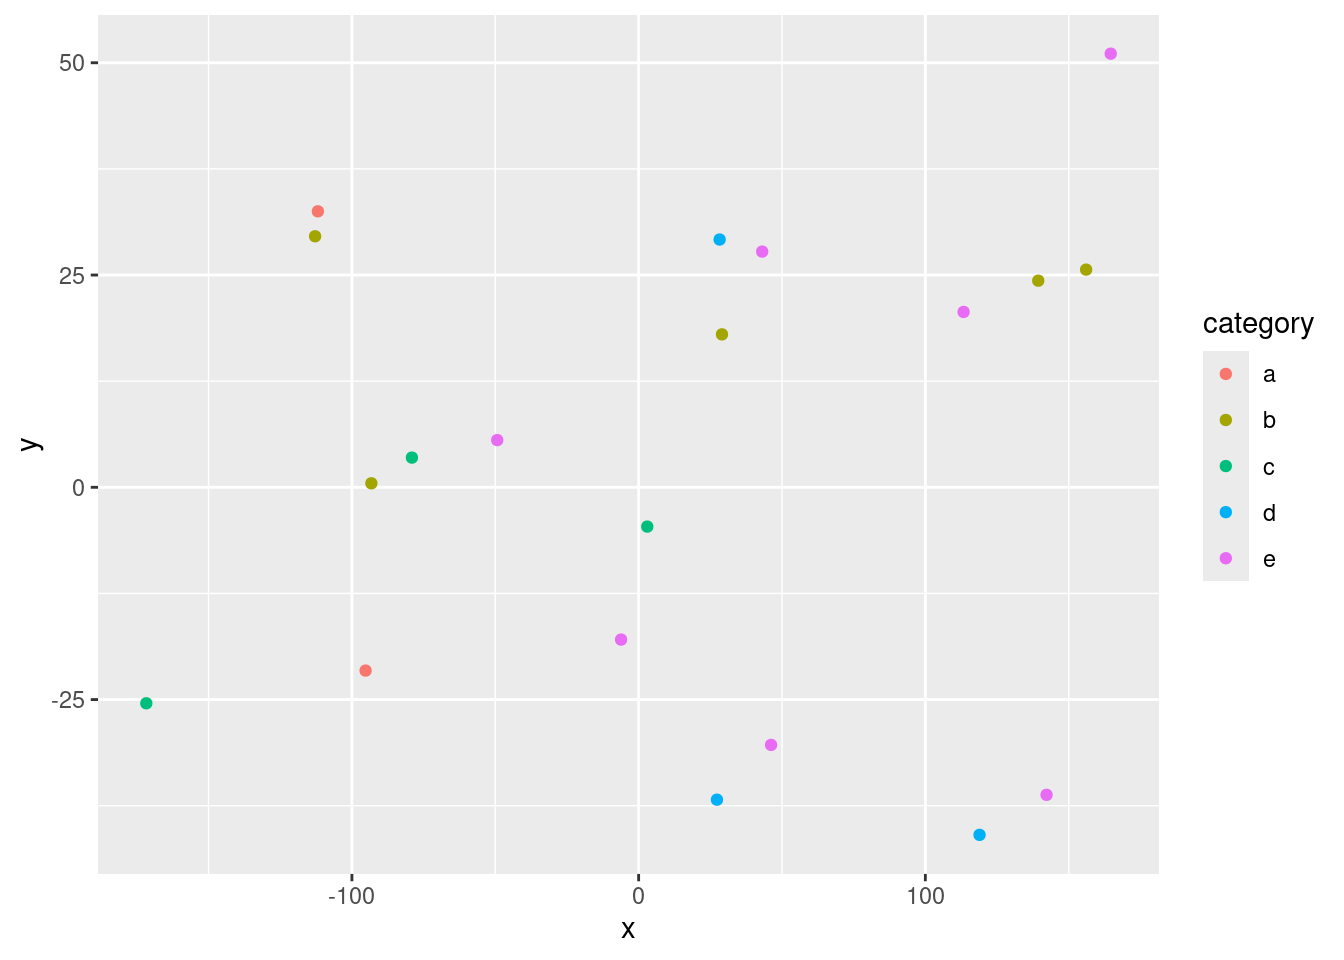
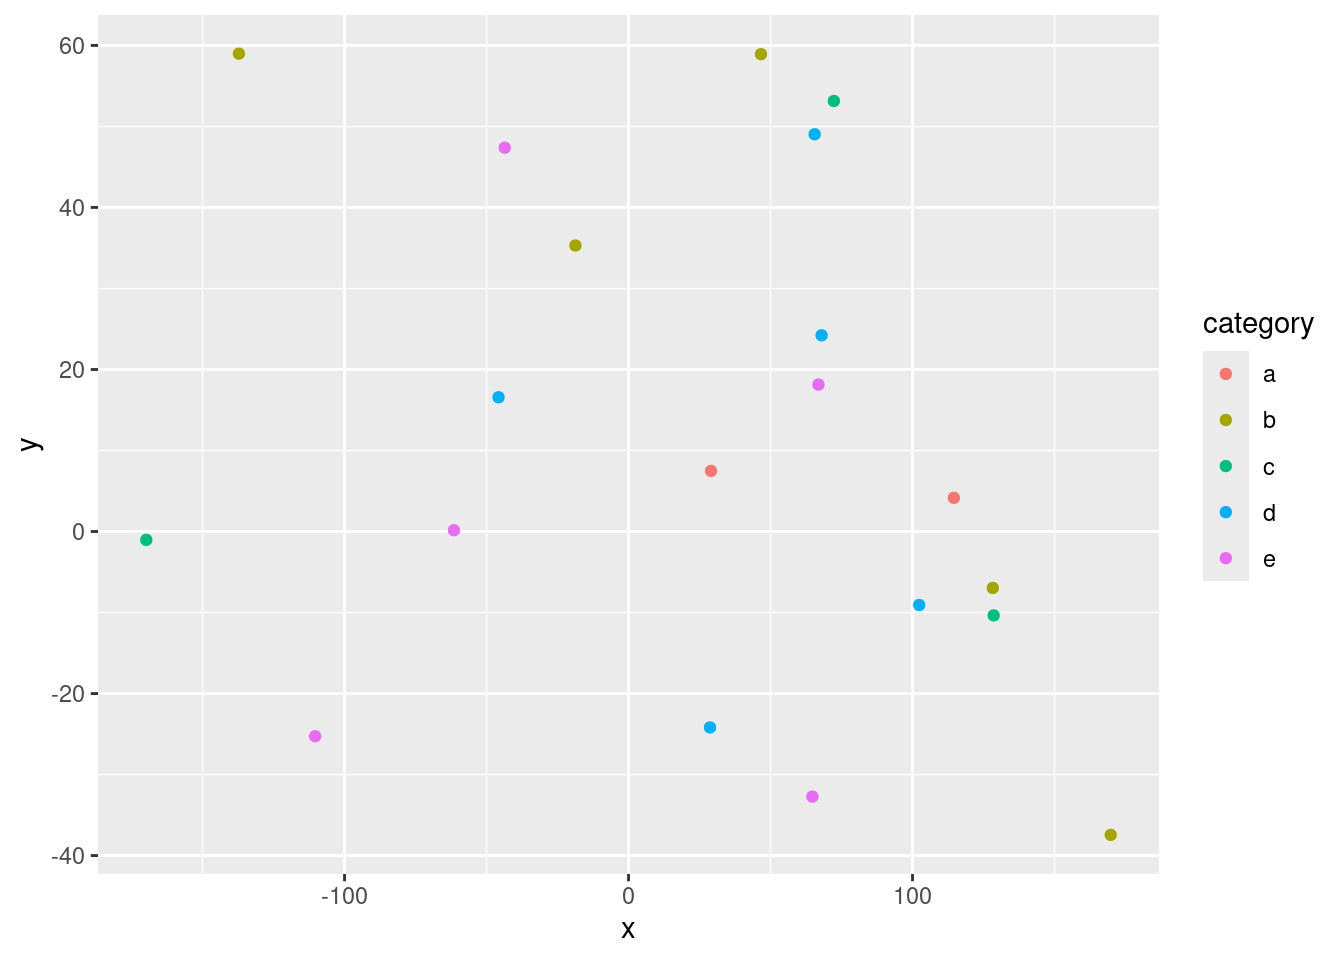
Built site for gh-pages

diff --git a/index.html b/index.html
@@ -266,74 +266,74 @@ pre > code.sourceCode > span > a:first-child::before { text-decoration: underlin
 </thead>
 <tbody>
 <tr class="odd">
-<td style="text-align: center;">3.01</td>
-<td style="text-align: center;">-4.63</td>
-<td style="text-align: center;">5.04</td>
-<td style="text-align: center;">c</td>
-<td style="text-align: center;">-0.42</td>
-</tr>
-<tr class="even">
-<td style="text-align: center;">-49.32</td>
-<td style="text-align: center;">5.56</td>
-<td style="text-align: center;">11.99</td>
-<td style="text-align: center;">e</td>
-<td style="text-align: center;">2.39</td>
-</tr>
-<tr class="odd">
-<td style="text-align: center;">28.24</td>
-<td style="text-align: center;">29.18</td>
-<td style="text-align: center;">12.61</td>
-<td style="text-align: center;">d</td>
-<td style="text-align: center;">-0.01</td>
-</tr>
-<tr class="even">
-<td style="text-align: center;">-79.08</td>
-<td style="text-align: center;">3.50</td>
-<td style="text-align: center;">9.10</td>
-<td style="text-align: center;">c</td>
-<td style="text-align: center;">-0.25</td>
-</tr>
-<tr class="odd">
-<td style="text-align: center;">43.09</td>
-<td style="text-align: center;">27.76</td>
-<td style="text-align: center;">14.27</td>
-<td style="text-align: center;">e</td>
-<td style="text-align: center;">-0.47</td>
-</tr>
-<tr class="even">
-<td style="text-align: center;">118.90</td>
-<td style="text-align: center;">-40.93</td>
-<td style="text-align: center;">10.36</td>
-<td style="text-align: center;">d</td>
-<td style="text-align: center;">-0.41</td>
-</tr>
-<tr class="odd">
-<td style="text-align: center;">139.37</td>
-<td style="text-align: center;">24.34</td>
-<td style="text-align: center;">9.19</td>
+<td style="text-align: center;">-18.70</td>
+<td style="text-align: center;">35.30</td>
+<td style="text-align: center;">11.36</td>
 <td style="text-align: center;">b</td>
-<td style="text-align: center;">0.47</td>
+<td style="text-align: center;">0.60</td>
 </tr>
 <tr class="even">
-<td style="text-align: center;">29.07</td>
-<td style="text-align: center;">18.01</td>
-<td style="text-align: center;">16.54</td>
-<td style="text-align: center;">b</td>
-<td style="text-align: center;">-0.35</td>
+<td style="text-align: center;">28.69</td>
+<td style="text-align: center;">-24.18</td>
+<td style="text-align: center;">14.00</td>
+<td style="text-align: center;">d</td>
+<td style="text-align: center;">-0.21</td>
 </tr>
 <tr class="odd">
-<td style="text-align: center;">27.31</td>
-<td style="text-align: center;">-36.79</td>
-<td style="text-align: center;">8.97</td>
-<td style="text-align: center;">d</td>
-<td style="text-align: center;">0.48</td>
+<td style="text-align: center;">-137.20</td>
+<td style="text-align: center;">58.98</td>
+<td style="text-align: center;">10.98</td>
+<td style="text-align: center;">b</td>
+<td style="text-align: center;">0.01</td>
 </tr>
 <tr class="even">
-<td style="text-align: center;">113.34</td>
-<td style="text-align: center;">20.66</td>
-<td style="text-align: center;">15.76</td>
+<td style="text-align: center;">-45.78</td>
+<td style="text-align: center;">16.57</td>
+<td style="text-align: center;">15.77</td>
+<td style="text-align: center;">d</td>
+<td style="text-align: center;">-1.56</td>
+</tr>
+<tr class="odd">
+<td style="text-align: center;">169.79</td>
+<td style="text-align: center;">-37.44</td>
+<td style="text-align: center;">15.01</td>
+<td style="text-align: center;">b</td>
+<td style="text-align: center;">-0.62</td>
+</tr>
+<tr class="even">
+<td style="text-align: center;">102.36</td>
+<td style="text-align: center;">-9.07</td>
+<td style="text-align: center;">12.80</td>
+<td style="text-align: center;">d</td>
+<td style="text-align: center;">-0.49</td>
+</tr>
+<tr class="odd">
+<td style="text-align: center;">72.31</td>
+<td style="text-align: center;">53.14</td>
+<td style="text-align: center;">14.77</td>
+<td style="text-align: center;">c</td>
+<td style="text-align: center;">1.36</td>
+</tr>
+<tr class="even">
+<td style="text-align: center;">46.63</td>
+<td style="text-align: center;">58.92</td>
+<td style="text-align: center;">14.58</td>
+<td style="text-align: center;">b</td>
+<td style="text-align: center;">0.49</td>
+</tr>
+<tr class="odd">
+<td style="text-align: center;">-43.60</td>
+<td style="text-align: center;">47.37</td>
+<td style="text-align: center;">6.34</td>
 <td style="text-align: center;">e</td>
-<td style="text-align: center;">1.35</td>
+<td style="text-align: center;">0.30</td>
+</tr>
+<tr class="even">
+<td style="text-align: center;">114.56</td>
+<td style="text-align: center;">4.16</td>
+<td style="text-align: center;">12.46</td>
+<td style="text-align: center;">a</td>
+<td style="text-align: center;">-1.79</td>
 </tr>
 </tbody>
 </table>
@@ -355,8 +355,8 @@ pre > code.sourceCode > span > a:first-child::before { text-decoration: underlin
 <span id="cb5-4"><a href="#cb5-4" aria-hidden="true" tabindex="-1"></a>  <span class="fu">addPopups</span>(<span class="sc">~</span>x[<span class="dv">2</span>], <span class="sc">~</span>y[<span class="dv">2</span>], <span class="st">"Random popup"</span>)</span>
 <span id="cb5-5"><a href="#cb5-5" aria-hidden="true" tabindex="-1"></a>m  <span class="co"># a map with the default OSM tile layer</span></span></code><button title="Copy to Clipboard" class="code-copy-button"><i class="bi"></i></button></pre></div>
 <div class="cell-output-display">
-<div class="leaflet html-widget html-fill-item" id="htmlwidget-4285475c1287042e1427" style="width:100%;height:325px;"></div>
-<script type="application/json" data-for="htmlwidget-4285475c1287042e1427">{"x":{"options":{"crs":{"crsClass":"L.CRS.EPSG3857","code":null,"proj4def":null,"projectedBounds":null,"options":{}}},"calls":[{"method":"addTiles","args":["https://{s}.tile.openstreetmap.org/{z}/{x}/{y}.png",null,null,{"minZoom":0,"maxZoom":18,"tileSize":256,"subdomains":"abc","errorTileUrl":"","tms":false,"noWrap":false,"zoomOffset":0,"zoomReverse":false,"opacity":1,"zIndex":1,"detectRetina":false,"attribution":"&copy; <a href=\"https://openstreetmap.org/copyright/\">OpenStreetMap<\/a>,  <a href=\"https://opendatacommons.org/licenses/odbl/\">ODbL<\/a>"}]},{"method":"addCircleMarkers","args":[[-4.627856137230992,5.561292339116335,29.18391709215939,3.498977674171329,27.76305000297725,-40.9345321264118,24.33798411861062,18.01236248575151,-36.79152502678335,20.65598613582551,-36.21835389174521,51.07304683886468,29.56557095982134,-25.43795339763165,0.470223119482398,32.50543185509741,-21.58543769270182,25.64059409312904,-17.93407928198576,-30.33831247128546],[3.013575654476881,-49.3158758059144,28.24131935834885,-79.08035854808986,43.09040389023721,118.8976481091231,139.3745388183743,29.06935441307724,27.31115735135972,113.3363056462258,142.2716704756021,164.6500597056001,-112.8460850939155,-171.7175329383463,-93.21742722764611,-111.8773150350899,-95.23624029010534,156.0723144561052,-6.124909445643425,46.18440683931112],[5.040244667325169,11.98575824731961,12.61328485095873,9.101377424085513,14.27329434314743,10.3600381850265,9.193443050608039,16.53604128514417,8.970644139917567,15.76037575025111,19.46229786262847,7.596181470435113,15.19431611872278,11.23834513244219,10.11869434849359,14.23787193489261,12.97353316098452,10.92567552579567,15.86251265951432,10.43770874850452],null,null,{"interactive":true,"className":"","stroke":true,"color":["c","e","d","c","e","d","b","b","d","e","e","e","b","c","b","a","a","b","e","e"],"weight":5,"opacity":0.5,"fill":true,"fillColor":["c","e","d","c","e","d","b","b","d","e","e","e","b","c","b","a","a","b","e","e"],"fillOpacity":0.2},null,null,null,null,null,{"interactive":false,"permanent":false,"direction":"auto","opacity":1,"offset":[0,0],"textsize":"10px","textOnly":false,"className":"","sticky":true},null]},{"method":"addPopups","args":[5.561292339116335,-49.3158758059144,"Random popup",null,null,{"maxWidth":300,"minWidth":50,"autoPan":true,"keepInView":false,"closeButton":true,"className":""}]}],"limits":{"lat":[-40.9345321264118,51.07304683886468],"lng":[-171.7175329383463,164.6500597056001]}},"evals":[],"jsHooks":[]}</script>
+<div class="leaflet html-widget html-fill-item" id="htmlwidget-b591f283548ae83beafb" style="width:100%;height:325px;"></div>
+<script type="application/json" data-for="htmlwidget-b591f283548ae83beafb">{"x":{"options":{"crs":{"crsClass":"L.CRS.EPSG3857","code":null,"proj4def":null,"projectedBounds":null,"options":{}}},"calls":[{"method":"addTiles","args":["https://{s}.tile.openstreetmap.org/{z}/{x}/{y}.png",null,null,{"minZoom":0,"maxZoom":18,"tileSize":256,"subdomains":"abc","errorTileUrl":"","tms":false,"noWrap":false,"zoomOffset":0,"zoomReverse":false,"opacity":1,"zIndex":1,"detectRetina":false,"attribution":"&copy; <a href=\"https://openstreetmap.org/copyright/\">OpenStreetMap<\/a>,  <a href=\"https://opendatacommons.org/licenses/odbl/\">ODbL<\/a>"}]},{"method":"addCircleMarkers","args":[[35.30213696882129,-24.18268488720059,58.9815297536552,16.57375090755522,-37.44415805675089,-9.069578563794494,53.14297034405172,58.91832903027534,47.37341629341245,4.159154528751969,-32.72625798359513,49.03510761447251,-6.968224374577403,-10.35662197507918,-25.26939296163619,18.1397215090692,0.156352361664176,-1.029147617518902,24.21770785935223,7.482337597757578],[-18.70429504662752,28.68884459137917,-137.2030788101256,-45.77894945628941,169.7944330796599,102.3571327328682,72.3149199038744,46.63153166882694,-43.59637437388301,114.5620952825993,64.75617871619761,65.53855075500906,128.2717302348465,128.5776067525148,-110.3486682940274,66.89180240035057,-61.47549921646714,-169.8150901962072,67.98268631100655,29.046168057248],[11.35978077305481,13.99696175358258,10.9822933783289,15.76997532742098,15.00563665293157,12.80197415500879,14.76572715560906,14.57635342725553,6.341396333882585,12.46463222429156,15.35125763737597,13.38763662381098,7.785007528727874,9.810295887291431,9.654404544271529,18.801145022735,18.36276434129104,12.19505612272769,7.806579358875751,10.50421194522642],null,null,{"interactive":true,"className":"","stroke":true,"color":["b","d","b","d","b","d","c","b","e","a","e","d","b","c","e","e","e","c","d","a"],"weight":5,"opacity":0.5,"fill":true,"fillColor":["b","d","b","d","b","d","c","b","e","a","e","d","b","c","e","e","e","c","d","a"],"fillOpacity":0.2},null,null,null,null,null,{"interactive":false,"permanent":false,"direction":"auto","opacity":1,"offset":[0,0],"textsize":"10px","textOnly":false,"className":"","sticky":true},null]},{"method":"addPopups","args":[-24.18268488720059,28.68884459137917,"Random popup",null,null,{"maxWidth":300,"minWidth":50,"autoPan":true,"keepInView":false,"closeButton":true,"className":""}]}],"limits":{"lat":[-37.44415805675089,58.9815297536552],"lng":[-169.8150901962072,169.7944330796599]}},"evals":[],"jsHooks":[]}</script>
 <p>Map of completely random data</p>
 </div>
 </div>
@@ -379,8 +379,8 @@ pre > code.sourceCode > span > a:first-child::before { text-decoration: underlin
 <span id="cb7-2"><a href="#cb7-2" aria-hidden="true" tabindex="-1"></a><span class="fu">dygraph</span>(nhtemp, <span class="at">main =</span> <span class="st">"New Haven Temperatures"</span>) <span class="sc">|&gt;</span> </span>
 <span id="cb7-3"><a href="#cb7-3" aria-hidden="true" tabindex="-1"></a>  <span class="fu">dyRangeSelector</span>(<span class="at">dateWindow =</span> <span class="fu">c</span>(<span class="st">"1920-01-01"</span>, <span class="st">"1960-01-01"</span>)) </span></code><button title="Copy to Clipboard" class="code-copy-button"><i class="bi"></i></button></pre></div>
 <div class="cell-output-display">
-<div class="dygraphs html-widget html-fill-item" id="htmlwidget-bcfcccbff13659dbed7b" style="width:100%;height:464px;"></div>
-<script type="application/json" data-for="htmlwidget-bcfcccbff13659dbed7b">{"x":{"attrs":{"title":"New Haven Temperatures","labels":["year","V1"],"legend":"auto","retainDateWindow":false,"axes":{"x":{"pixelsPerLabel":60}},"showRangeSelector":true,"dateWindow":["1920-01-01T00:00:00.000Z","1960-01-01T00:00:00.000Z"],"rangeSelectorHeight":40,"rangeSelectorPlotFillColor":" #A7B1C4","rangeSelectorPlotStrokeColor":"#808FAB","interactionModel":"Dygraph.Interaction.defaultModel"},"scale":"yearly","annotations":[],"shadings":[],"events":[],"format":"date","data":[["1912-01-01T00:00:00.000Z","1913-01-01T00:00:00.000Z","1914-01-01T00:00:00.000Z","1915-01-01T00:00:00.000Z","1916-01-01T00:00:00.000Z","1917-01-01T00:00:00.000Z","1918-01-01T00:00:00.000Z","1919-01-01T00:00:00.000Z","1920-01-01T00:00:00.000Z","1921-01-01T00:00:00.000Z","1922-01-01T00:00:00.000Z","1923-01-01T00:00:00.000Z","1924-01-01T00:00:00.000Z","1925-01-01T00:00:00.000Z","1926-01-01T00:00:00.000Z","1927-01-01T00:00:00.000Z","1928-01-01T00:00:00.000Z","1929-01-01T00:00:00.000Z","1930-01-01T00:00:00.000Z","1931-01-01T00:00:00.000Z","1932-01-01T00:00:00.000Z","1933-01-01T00:00:00.000Z","1934-01-01T00:00:00.000Z","1935-01-01T00:00:00.000Z","1936-01-01T00:00:00.000Z","1937-01-01T00:00:00.000Z","1938-01-01T00:00:00.000Z","1939-01-01T00:00:00.000Z","1940-01-01T00:00:00.000Z","1941-01-01T00:00:00.000Z","1942-01-01T00:00:00.000Z","1943-01-01T00:00:00.000Z","1944-01-01T00:00:00.000Z","1945-01-01T00:00:00.000Z","1946-01-01T00:00:00.000Z","1947-01-01T00:00:00.000Z","1948-01-01T00:00:00.000Z","1949-01-01T00:00:00.000Z","1950-01-01T00:00:00.000Z","1951-01-01T00:00:00.000Z","1952-01-01T00:00:00.000Z","1953-01-01T00:00:00.000Z","1954-01-01T00:00:00.000Z","1955-01-01T00:00:00.000Z","1956-01-01T00:00:00.000Z","1957-01-01T00:00:00.000Z","1958-01-01T00:00:00.000Z","1959-01-01T00:00:00.000Z","1960-01-01T00:00:00.000Z","1961-01-01T00:00:00.000Z","1962-01-01T00:00:00.000Z","1963-01-01T00:00:00.000Z","1964-01-01T00:00:00.000Z","1965-01-01T00:00:00.000Z","1966-01-01T00:00:00.000Z","1967-01-01T00:00:00.000Z","1968-01-01T00:00:00.000Z","1969-01-01T00:00:00.000Z","1970-01-01T00:00:00.000Z","1971-01-01T00:00:00.000Z"],[49.9,52.3,49.4,51.1,49.4,47.9,49.8,50.9,49.3,51.9,50.8,49.6,49.3,50.6,48.4,50.7,50.9,50.6,51.5,52.8,51.8,51.1,49.8,50.2,50.4,51.6,51.8,50.9,48.8,51.7,51,50.6,51.7,51.5,52.1,51.3,51,54,51.4,52.7,53.1,54.6,52,52,50.9,52.6,50.2,52.6,51.6,51.9,50.5,50.9,51.7,51.4,51.7,50.8,51.9,51.8,51.9,53]]},"evals":["attrs.interactionModel"],"jsHooks":[]}</script>
+<div class="dygraphs html-widget html-fill-item" id="htmlwidget-9695dcce905d695a1eac" style="width:100%;height:464px;"></div>
+<script type="application/json" data-for="htmlwidget-9695dcce905d695a1eac">{"x":{"attrs":{"title":"New Haven Temperatures","labels":["year","V1"],"legend":"auto","retainDateWindow":false,"axes":{"x":{"pixelsPerLabel":60}},"showRangeSelector":true,"dateWindow":["1920-01-01T00:00:00.000Z","1960-01-01T00:00:00.000Z"],"rangeSelectorHeight":40,"rangeSelectorPlotFillColor":" #A7B1C4","rangeSelectorPlotStrokeColor":"#808FAB","interactionModel":"Dygraph.Interaction.defaultModel"},"scale":"yearly","annotations":[],"shadings":[],"events":[],"format":"date","data":[["1912-01-01T00:00:00.000Z","1913-01-01T00:00:00.000Z","1914-01-01T00:00:00.000Z","1915-01-01T00:00:00.000Z","1916-01-01T00:00:00.000Z","1917-01-01T00:00:00.000Z","1918-01-01T00:00:00.000Z","1919-01-01T00:00:00.000Z","1920-01-01T00:00:00.000Z","1921-01-01T00:00:00.000Z","1922-01-01T00:00:00.000Z","1923-01-01T00:00:00.000Z","1924-01-01T00:00:00.000Z","1925-01-01T00:00:00.000Z","1926-01-01T00:00:00.000Z","1927-01-01T00:00:00.000Z","1928-01-01T00:00:00.000Z","1929-01-01T00:00:00.000Z","1930-01-01T00:00:00.000Z","1931-01-01T00:00:00.000Z","1932-01-01T00:00:00.000Z","1933-01-01T00:00:00.000Z","1934-01-01T00:00:00.000Z","1935-01-01T00:00:00.000Z","1936-01-01T00:00:00.000Z","1937-01-01T00:00:00.000Z","1938-01-01T00:00:00.000Z","1939-01-01T00:00:00.000Z","1940-01-01T00:00:00.000Z","1941-01-01T00:00:00.000Z","1942-01-01T00:00:00.000Z","1943-01-01T00:00:00.000Z","1944-01-01T00:00:00.000Z","1945-01-01T00:00:00.000Z","1946-01-01T00:00:00.000Z","1947-01-01T00:00:00.000Z","1948-01-01T00:00:00.000Z","1949-01-01T00:00:00.000Z","1950-01-01T00:00:00.000Z","1951-01-01T00:00:00.000Z","1952-01-01T00:00:00.000Z","1953-01-01T00:00:00.000Z","1954-01-01T00:00:00.000Z","1955-01-01T00:00:00.000Z","1956-01-01T00:00:00.000Z","1957-01-01T00:00:00.000Z","1958-01-01T00:00:00.000Z","1959-01-01T00:00:00.000Z","1960-01-01T00:00:00.000Z","1961-01-01T00:00:00.000Z","1962-01-01T00:00:00.000Z","1963-01-01T00:00:00.000Z","1964-01-01T00:00:00.000Z","1965-01-01T00:00:00.000Z","1966-01-01T00:00:00.000Z","1967-01-01T00:00:00.000Z","1968-01-01T00:00:00.000Z","1969-01-01T00:00:00.000Z","1970-01-01T00:00:00.000Z","1971-01-01T00:00:00.000Z"],[49.9,52.3,49.4,51.1,49.4,47.9,49.8,50.9,49.3,51.9,50.8,49.6,49.3,50.6,48.4,50.7,50.9,50.6,51.5,52.8,51.8,51.1,49.8,50.2,50.4,51.6,51.8,50.9,48.8,51.7,51,50.6,51.7,51.5,52.1,51.3,51,54,51.4,52.7,53.1,54.6,52,52,50.9,52.6,50.2,52.6,51.6,51.9,50.5,50.9,51.7,51.4,51.7,50.8,51.9,51.8,51.9,53]]},"evals":["attrs.interactionModel"],"jsHooks":[]}</script>
 </div>
 </div>
 </section>
